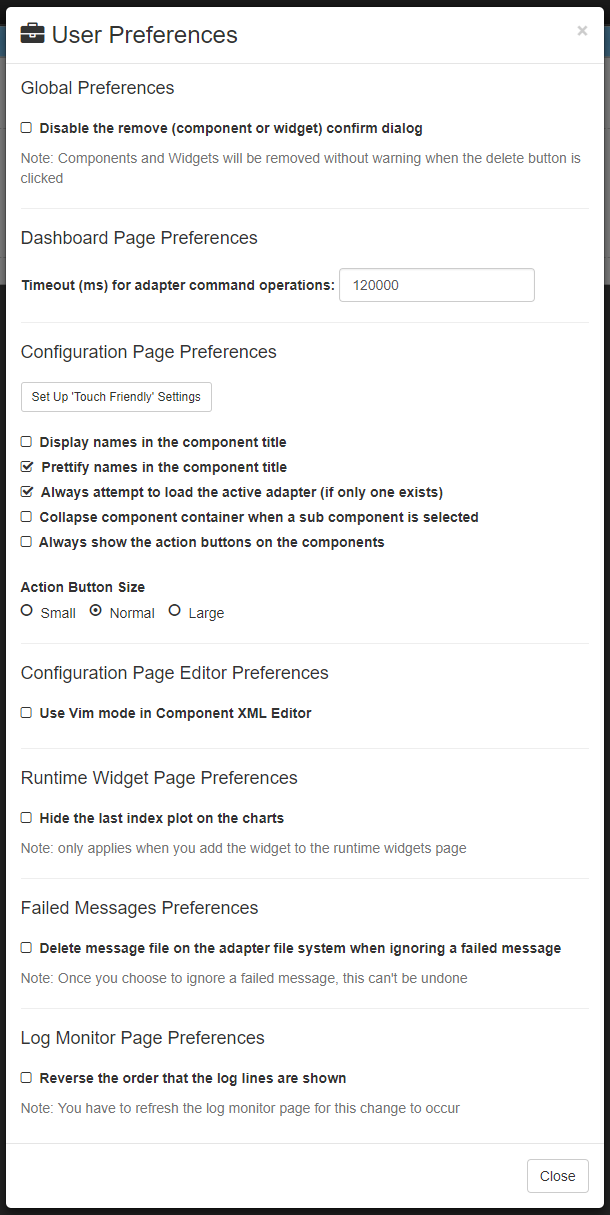
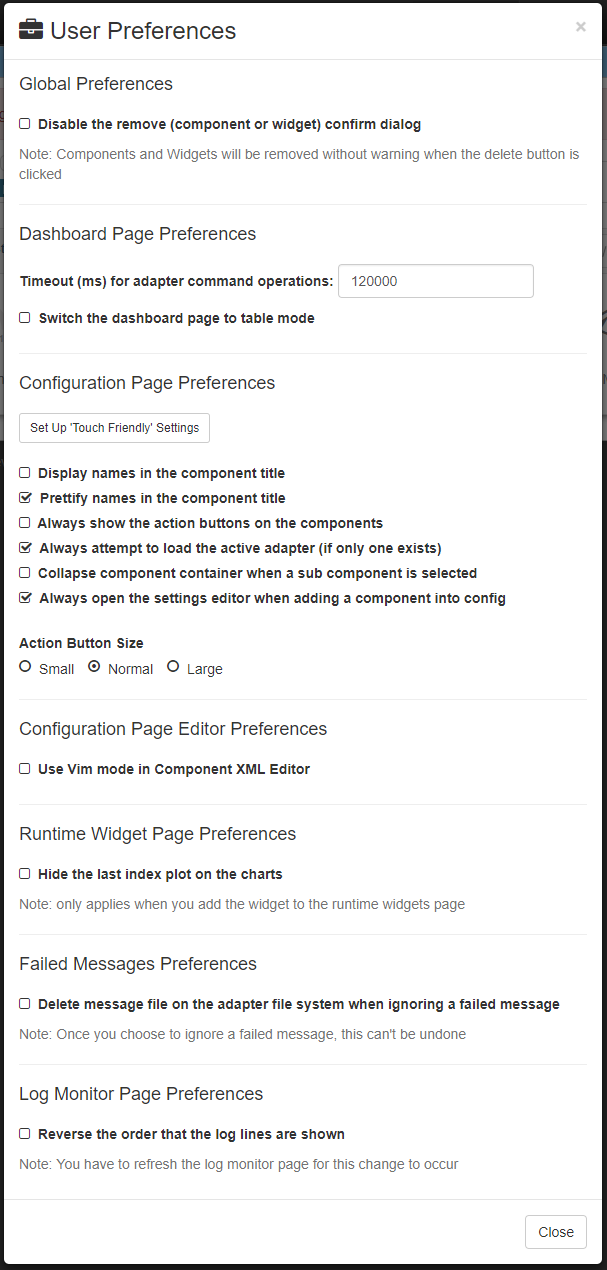
INTERLOK-2267 #time 1h #comment Updted doc for the dashboardf page to add info about the new table mode.

diff --git a/pages/ui/ui-dashboard.md b/pages/ui/ui-dashboard.md
@@ -56,10 +56,11 @@ The Dashboard Page with annotations shows the various parts of the Dashboard Pag
 | ![Dashboard Adapter Control Force Stop](./images/ui-user-guide/dashboard-adapter-control-force-stop.png) | Under the Stop dropdown. Force Stop this Adapter (doesn't wait for services to finish) and free up any resources that it has used.
 | ![Dashboard Adapter Control Reload From Vcs](./images/ui-user-guide/dashboard-adapter-control-reload-from-vcs.png) | Under the Stop dropdown. Reload this Adapter configuration from Vcs and restart it. Only available for User and Admin users and if [version control](advanced-version-control.html#version-control-configuration) is configured for this Adapter. (Since 3.3)
 | ![Dashboard Adapter Control Support Pack](./images/ui-user-guide/dashboard-adapter-control-support-pack.png) | Under the Stop dropdown. Download a support pack containing log files and information about this Adapter. (Since 3.3)
+| ![Dashboard Adapter Control Edit Adapter](./images/ui-user-guide/dashboard-adapter-control-edit-adapter.png) | Under the Stop dropdown. Edit and Adapter name or tags. (Since 3.7.3)
 | ![Dashboard Adapter Control Refresh](./images/ui-user-guide/dashboard-adapter-control-refresh.png) | Refresh the Adapter status and details
 | ![Dashboard Adapter Control Remove](./images/ui-user-guide/dashboard-adapter-control-remove.png) | Remove the Adapter from the dashboard page
 
-- L. This area is for 'top level' functions, i.e. Add another Adapter to the UI or Refresh all the details on the Dashboard Page for all the Registered Adapters.
+- L. This area is for 'top level' functions, i.e. Add another Adapter to the UI, Refresh all the details on the Dashboard Page for all the Registered Adapters or Switch between the Widget and Table mode.
 
 {% include note.html content="All the data shown on the Dashboard Page is automatically refreshed, so there is no need to manually refresh the page, or use the refresh buttons" %}
 
@@ -251,6 +252,7 @@ The Add Adapter form inputs explained:
 - **Name:** This property is for display purposes and also an easy way to differentiate Adapters registered within the UI web application.
 - **Adapter Unique Id:** This is the Adapter unique identifier used in the Adapter configuration XML file: `<adapter><unique-id>adapterUid</unique-id</adapter>`. This is required for the UI to establish the JMX connection to the Adapter.
 - **URL:** The JMX URL used to connect to the Adapter, for example: localhost:5555. You can also provide the JMX protocol: service:jmx:jmxmp://localhost:5555
+- **Tags:** The tags associated to the Adapter to make it easier to filter Adapters. (Since 3.7.3)
 - **Advanced Options** - Clicking the Advanced Options link will unveil three more properties, all of which are optional :
     - **Disable Url Validation:** This options disable the JMX URL front-end validation. It should be use with care and only if you know that the JMX URL you are using is valid but fails validation (Since 3.6.5)
     - **Username:** The username needed to establish the JMX connection if you are using password protection for the adapter JMX connection as describe in [Password Protecting JMXMP](advanced-jmx.html#password-protecting-jmxmp-311) (Since 3.1.1)
@@ -263,6 +265,13 @@ The Dashboard Page with multiple registered Adapter instances:
 
 ![The Dashboard Page with multiple registered Adapter instances](./images/ui-user-guide/dashboard-page-with-2-adapters.png)
 
-On two widgets per row mode:
+## Table Mode ##
 
-![The Dashboard Page with multiple registered Adapter instances](./images/ui-user-guide/dashboard-page-with-2-adapters-small.png)
+Since 3.7.3 the dashboard page can display the Adapters in a table mode. This new mode make it easier to monitor several Adapters.
+
+To switch between the two modes just use the toggle button next to the "Add Adapter" button ![Dashboard table mode toggle btn](./images/ui-user-guide/dashboard-table-mode-toggle-btn.png)
+
+![The Dashboard Page with table mode](./images/ui-user-guide/dashboard-page-table-mode.png)
+
+Since 3.7.3 when creating an Adapter you can also add one or many tags that can be used for filtering.
+If at least one Adapter has a tag the tag list will be displayed above the Adapter list or table.

diff --git a/pages/ui/ui-user-preferences.md b/pages/ui/ui-user-preferences.md
@@ -19,6 +19,7 @@ The preferences are:
 
 ## Dashboard Page Preferences ##
  - **Timeout (ms) for adapter command operations:** The timeout for the adapter commands such as Start Adapter, Stop Adapter, Start Channel ... The default value is 120000 ms (2 mins).
+ - **Switch the dashboard page to table mode:** This option toggle how the adapters are displayed in the dashboard page (Widget or Table). The option is also updated when the toggle button is used in the dashboard page. (Since 3.7.3)
 
 ## Configuration Page Preferences ##
  - **Display names in the component title:** Whether to display the component name in the component title or in the body. The default value is false.
